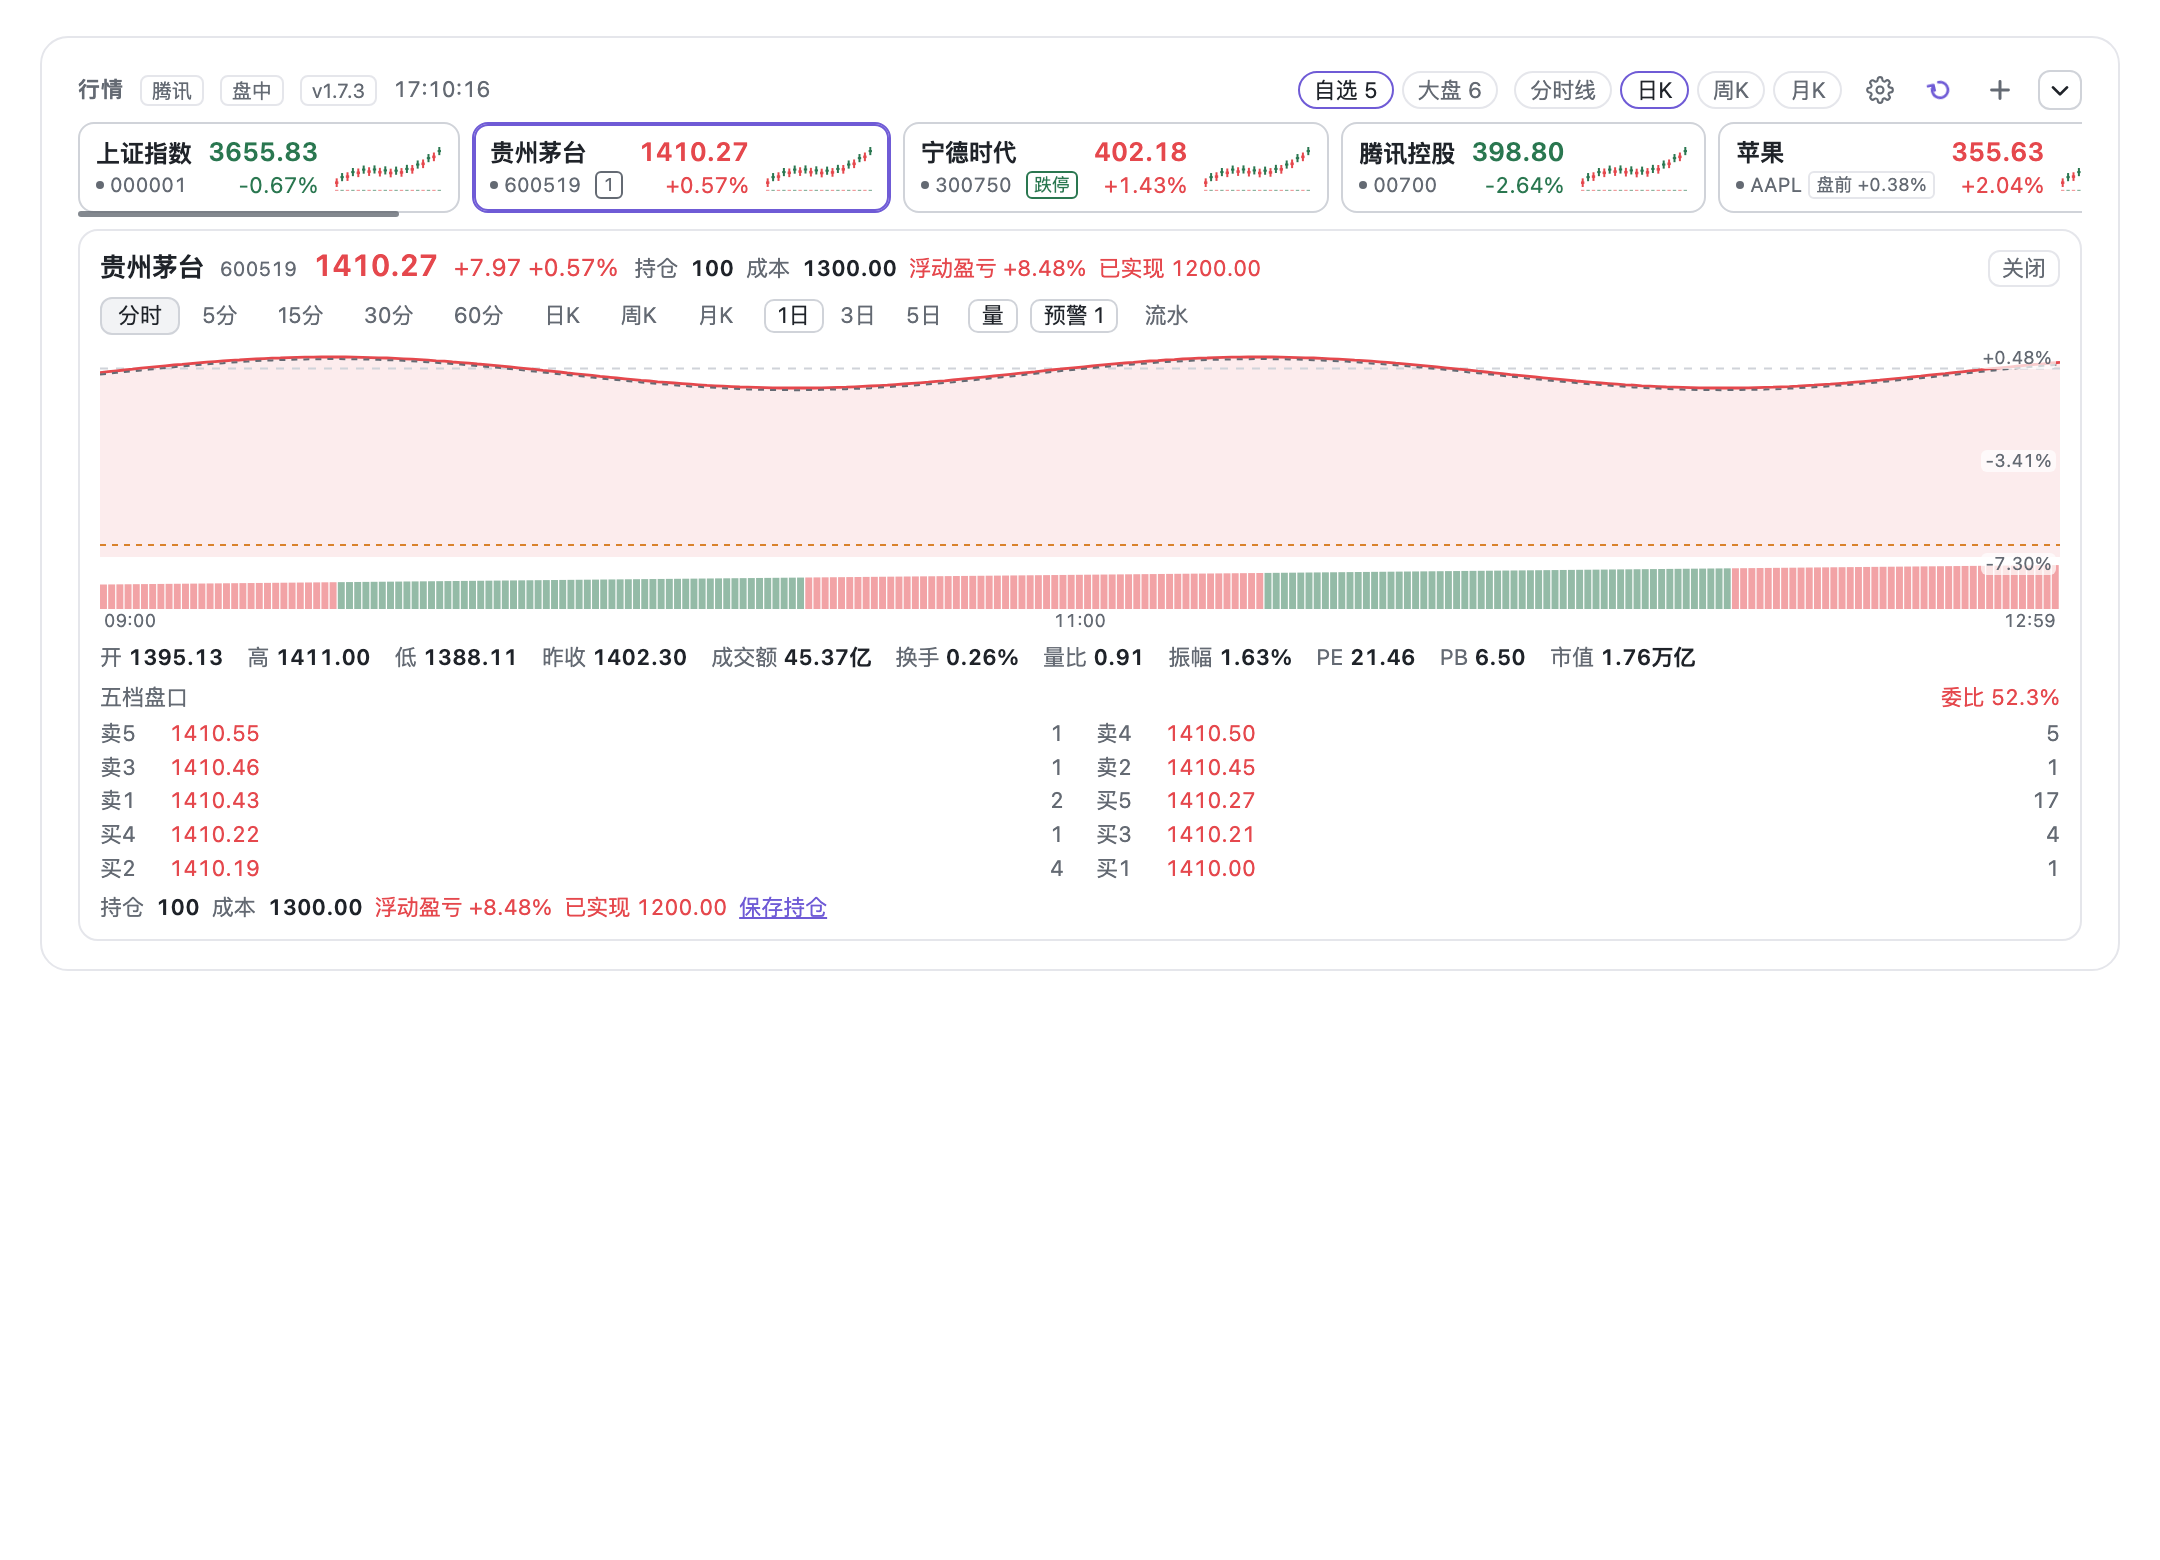
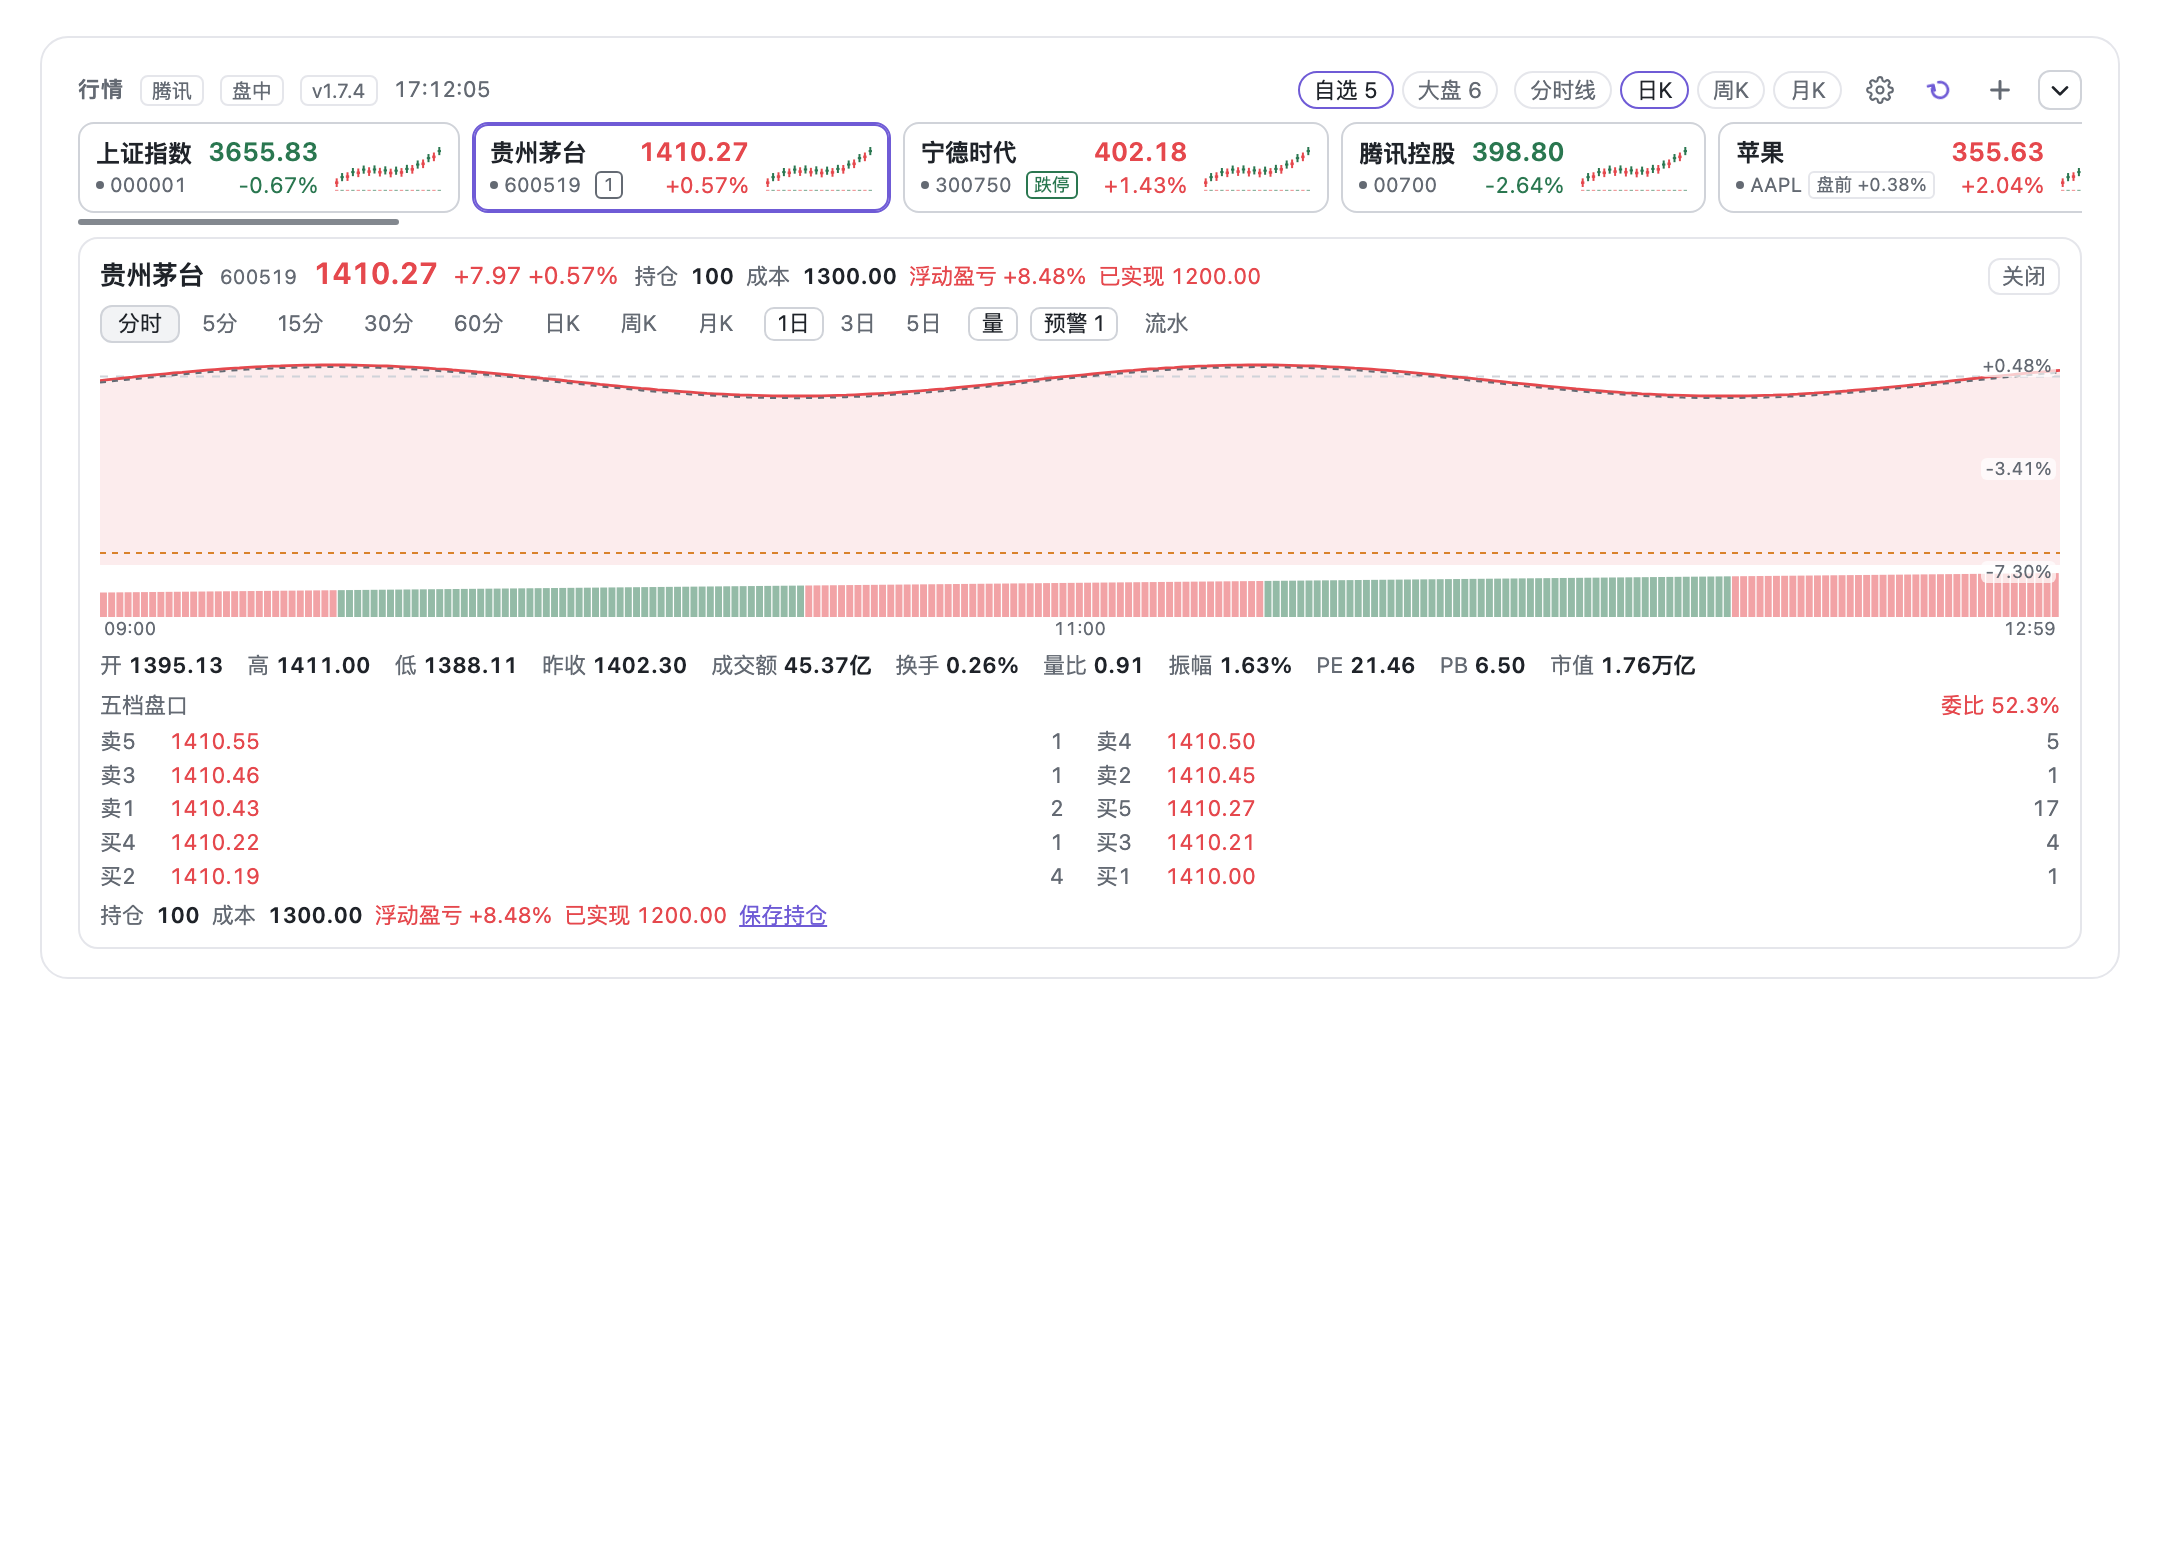
fix(client): hide the native strip scrollbar over the price row (1.7.4)
macOS could draw a full-height native horizontal scrollbar across the bottom of
the strip, covering every card's price and percent. The custom 3 px track is
enough, so the native bar is hidden (`scrollbar-width: none`, zero-sized
`::-webkit-scrollbar`) and the strip reserves 6 px of bottom padding to keep the
track below the cards.

- Screenshots refreshed. 79 tests.

Local commit only; not pushed.

diff --git a/client.js b/client.js
@@ -16,7 +16,7 @@ window.__ModuleLoader__.load({
     const { useCallback, useEffect, useMemo, useRef, useState } = React
 
     const NS = 'stockTicker'
-    const BUILD = 'v1.7.3'
+    const BUILD = 'v1.7.4'
     const ENDPOINT = '/dsh-stock-ticker'
     const COLLAPSE_KEY = 'dsh-stock-ticker:collapsed'
     const STYLE_ID = 'stock-ticker'
@@ -429,8 +429,15 @@ window.__ModuleLoader__.load({
   gap: 6px;
   overflow-x: auto;
   overscroll-behavior-x: contain;
-  padding-bottom: 2px;
-  scrollbar-width: thin;
+  /* The 3 px custom track below the cards is the only scrollbar; a native one
+     would be drawn over the price row on macOS. The padding reserves its room. */
+  padding-bottom: 6px;
+  scrollbar-width: none;
+}
+.dshst-strip::-webkit-scrollbar {
+  display: none;
+  width: 0;
+  height: 0;
 }
 .dshst-card {
   display: flex;

diff --git a/CHANGELOG.md b/CHANGELOG.md
@@ -378,3 +378,13 @@ Settings discoverability and the options the strip was missing.
   `miniChartType` preference.
 - Test: the active pill switches the preference and refetches with
   `type=intraday`. 79 tests.
+
+## 1.7.4 — 2026-11-13
+
+- The strip no longer draws a native horizontal scrollbar over the price row.
+  macOS could show a full-height bar that covered the bottom of every card, so
+  the native bar is hidden (`scrollbar-width: none` and a zero-sized
+  `::-webkit-scrollbar`) and the existing 3 px custom track is the only
+  indicator. The strip reserves 6 px of bottom padding, keeping the track below
+  the cards instead of on top of them.
+- Screenshots refreshed.

diff --git a/README.md b/README.md
@@ -2,7 +2,7 @@
 
 **中文** · [English](README.en.md)
 
-![version](https://img.shields.io/badge/version-1.7.3-blue)
+![version](https://img.shields.io/badge/version-1.7.4-blue)
 ![license](https://img.shields.io/badge/license-MIT-green)
 ![dsh](https://img.shields.io/badge/DSH-0.2.x-6f5bd6)
 ![data](https://img.shields.io/badge/data-Tencent%20%7C%20Sina%20%7C%20Eastmoney-orange)

diff --git a/README.en.md b/README.en.md
@@ -2,7 +2,7 @@
 
 [中文](README.md) · **English**
 
-![version](https://img.shields.io/badge/version-1.7.3-blue)
+![version](https://img.shields.io/badge/version-1.7.4-blue)
 ![license](https://img.shields.io/badge/license-MIT-green)
 ![dsh](https://img.shields.io/badge/DSH-0.2.x-6f5bd6)
 ![data](https://img.shields.io/badge/data-Tencent%20%7C%20Sina%20%7C%20Eastmoney-orange)
